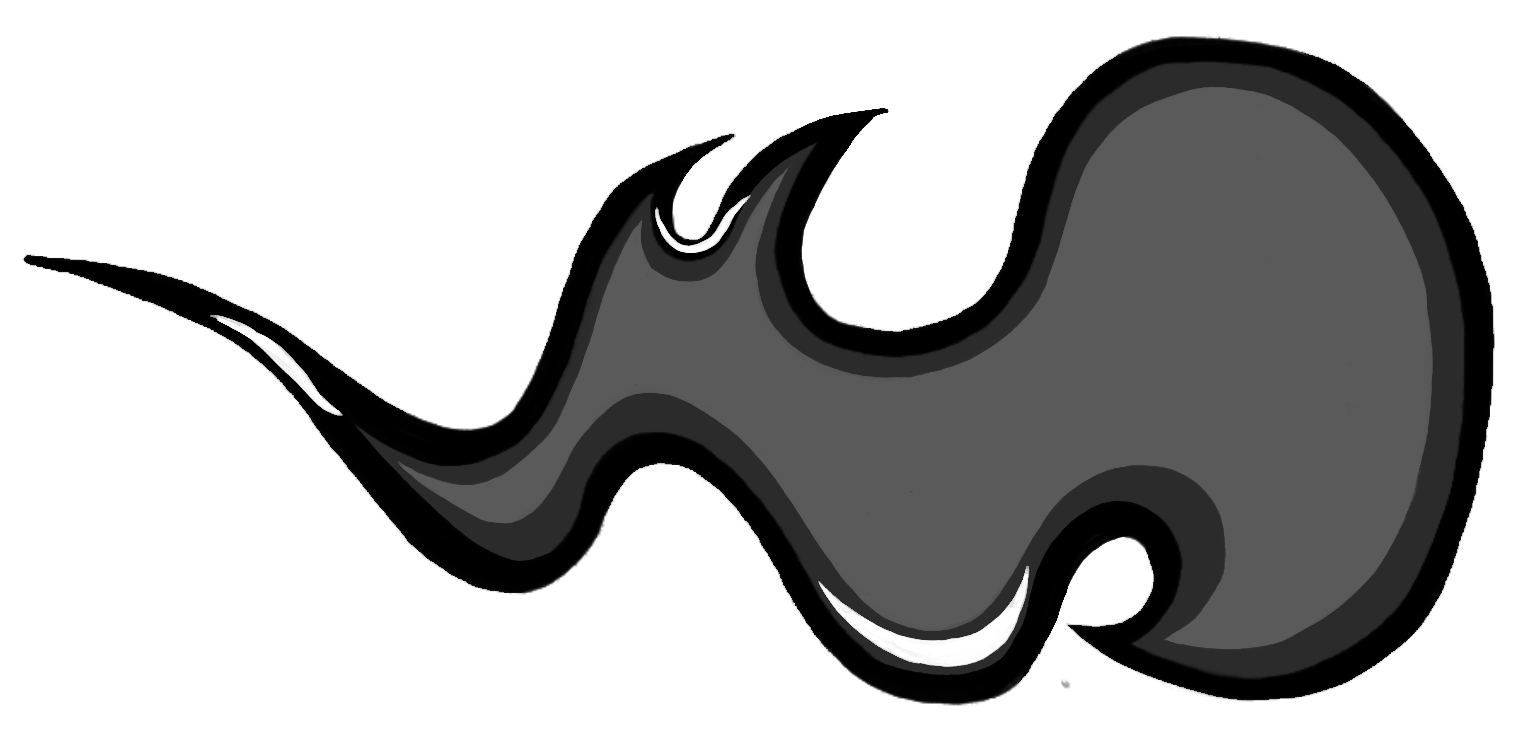
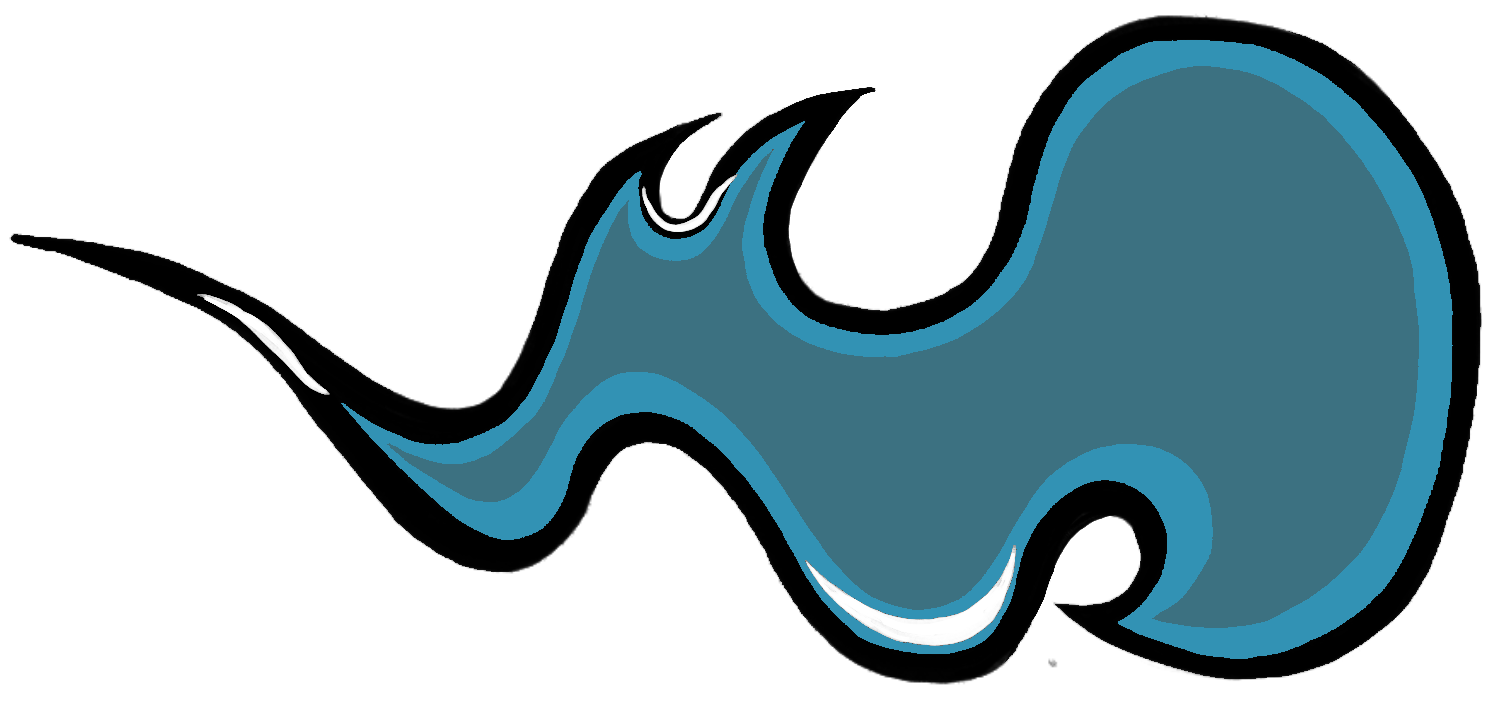
boss bullet MULTICOLOR ADD BOSS DEBUG edit boss valuus

diff --git a/EarlyBirdGetsDaWorm/Boss.cpp b/EarlyBirdGetsDaWorm/Boss.cpp
@@ -3,7 +3,8 @@
 // --- Boss Textures ---
 static AEGfxTexture* bossTex[3]          = { nullptr, nullptr, nullptr };
 static AEGfxTexture* bossShieldTex[3]    = { nullptr, nullptr, nullptr };
-static AEGfxTexture* bossBulletFrames[2] = { nullptr, nullptr };
+static AEGfxTexture* bossBulletFrames[2]        = { nullptr, nullptr };
+static AEGfxTexture* bossScatterBulletFrames[2] = { nullptr, nullptr };
 
 // --- Boss Animation Variables ---
 static int   currentBossFrame  = 0;
@@ -17,8 +18,6 @@ static int   currentBulletFrame = 0;
 static float bulletAnimTimer    = 0.0f;
 const  float BULLET_ANIM_SPEED  = 0.1f;
 
-// --- Define Max Health ---
-const int BOSS_MAX_HEALTH = 500;
 
 
 void Boss_Load()
@@ -29,8 +28,10 @@ void Boss_Load()
     bossShieldTex[0] = LoadTextureChecked(Assets::Boss_Fight::Shield1);
     bossShieldTex[1] = LoadTextureChecked(Assets::Boss_Fight::Shield2);
     bossShieldTex[2] = LoadTextureChecked(Assets::Boss_Fight::Shield3);
-    bossBulletFrames[0] = LoadTextureChecked(Assets::Boss_Fight::Bullet1);
-    bossBulletFrames[1] = LoadTextureChecked(Assets::Boss_Fight::Bullet2);
+    bossBulletFrames[0]        = LoadTextureChecked(Assets::Boss_Fight::Bullet1);
+    bossBulletFrames[1]        = LoadTextureChecked(Assets::Boss_Fight::Bullet2);
+    bossScatterBulletFrames[0] = LoadTextureChecked(Assets::Boss_Fight::ScatterBullet1);
+    bossScatterBulletFrames[1] = LoadTextureChecked(Assets::Boss_Fight::ScatterBullet2);
 }
 
 void Boss_Initialize(Boss& boss)
@@ -129,9 +130,10 @@ void Boss_Update(Boss& boss, float dt, float playerX, float playerY)
 
         for (int i = 0; i < MAX_BOSS_BULLETS; i++) {
             if (!boss.bullets[i].active) {
-                boss.bullets[i].active = true;
-                boss.bullets[i].hp = 15;
-                boss.bullets[i].x = handX; // Spawn at Hand
+                boss.bullets[i].active    = true;
+                boss.bullets[i].is_scatter = false;
+                boss.bullets[i].hp        = 15;
+                boss.bullets[i].x         = handX; // Spawn at Hand
                 boss.bullets[i].y = handY;
 
                 float diffX = playerX - handX;
@@ -157,9 +159,10 @@ void Boss_Update(Boss& boss, float dt, float playerX, float playerY)
         int bulletsFired = 0;
         for (int i = 0; i < MAX_BOSS_BULLETS && bulletsFired < 5; i++) {
             if (!boss.bullets[i].active) {
-                boss.bullets[i].active = true;
-                boss.bullets[i].hp = 10;
-                boss.bullets[i].x = handX; // Spawn at Hand
+                boss.bullets[i].active     = true;
+                boss.bullets[i].is_scatter = true;
+                boss.bullets[i].hp         = 10;
+                boss.bullets[i].x          = handX; // Spawn at Hand
                 boss.bullets[i].y = handY;
 
                 float spreadAngle = baseAngle + ((bulletsFired - 2) * 0.2f);
@@ -175,7 +178,7 @@ void Boss_Update(Boss& boss, float dt, float playerX, float playerY)
     else if (boss.currentState == 2 && boss.shootTimer <= 0.0f) {
         boss.shootTimer = 0.5f;
         if (boss.health < BOSS_MAX_HEALTH) {
-            boss.health += 1;
+            boss.health += 15;
         }
     }
 
@@ -255,13 +258,12 @@ void Boss_Draw(Boss& boss, AEGfxVertexList* mesh)
     //AEGfxSetTransparency(1.0f);
     
 
-    // Get the current frame texture
-    // Get the current frame texture
-    AEGfxTexture* currentTex = bossBulletFrames[currentBulletFrame];
-
     // Draw Boss Bullets
     for (int i = 0; i < MAX_BOSS_BULLETS; i++) {
         if (boss.bullets[i].active) {
+            AEGfxTexture* currentTex = boss.bullets[i].is_scatter
+                ? bossScatterBulletFrames[currentBulletFrame]
+                : bossBulletFrames[currentBulletFrame];
             if (currentTex) {
                 float angle = atan2f(boss.bullets[i].dirY, boss.bullets[i].dirX);
 
@@ -328,4 +330,6 @@ void Boss_Unload()
     }
     UnloadTextureSafe(bossBulletFrames[0]);
     UnloadTextureSafe(bossBulletFrames[1]);
+    UnloadTextureSafe(bossScatterBulletFrames[0]);
+    UnloadTextureSafe(bossScatterBulletFrames[1]);
 }

diff --git a/EarlyBirdGetsDaWorm/BossDebug.cpp b/EarlyBirdGetsDaWorm/BossDebug.cpp
@@ -1,0 +1,97 @@
+// BossDebug.cpp
+#include "pch.hpp"
+#include "BossDebug.hpp"
+
+static bool gBossDebugMode = false;
+static bool gGodMode       = false;
+static s8   gDebugFont     = -1;
+static char gDebugBuffer[256];
+
+void BossDebug_Load()
+{
+    gDebugFont = AEGfxCreateFont(Assets::Fonts::Buggy, 20);
+}
+
+void BossDebug_Update(Boss& boss)
+{
+    if (AEInputCheckTriggered(AEVK_F3))
+        gBossDebugMode = !gBossDebugMode;
+
+    if (!gBossDebugMode) return;
+
+    // G: set boss HP to 1 (near-death)
+    if (AEInputCheckTriggered(AEVK_G))
+        boss.health = 1;
+
+    // I: toggle god mode (player takes no damage)
+    if (AEInputCheckTriggered(AEVK_I))
+        gGodMode = !gGodMode;
+
+    // N: toggle boss shield on/off
+    if (AEInputCheckTriggered(AEVK_N))
+        boss.shieldActive = !boss.shieldActive;
+
+    // B: clear all active boss bullets
+    if (AEInputCheckTriggered(AEVK_B))
+        for (int i = 0; i < MAX_BOSS_BULLETS; i++)
+            boss.bullets[i].active = false;
+}
+
+void BossDebug_Draw(const BossDebugInfo& info)
+{
+    if (!gBossDebugMode) return;
+
+    const f32 textScale  = 1.0f;
+    const f32 startX     = -0.98f;
+    const f32 startY     = -0.55f;
+    const f32 lineHeight = 0.06f;
+
+    const char* state_str = info.boss_state == 0 ? "NORMAL"
+                          : info.boss_state == 1 ? "SPREAD"
+                          : info.boss_state == 2 ? "SHIELD"
+                          : "UNKNOWN";
+
+    // Row 0 (green) — Player position, velocity, health, flags
+    sprintf_s(gDebugBuffer, "PLAYER: Pos[%.0f, %.0f] | Vel[%.0f, %.0f] | HP:%d/%d | GRND:%s CROUCH:%s",
+        info.player_x, info.player_y,
+        info.player_vel_x, info.player_vel_y,
+        info.player_hp, info.player_hp_max,
+        info.is_grounded  ? "YES" : "NO",
+        info.is_crouching ? "YES" : "NO");
+    AEGfxPrint(gDebugFont, gDebugBuffer, startX, startY, textScale, 0.0f, 1.0f, 0.0f, 1.0f);
+
+    // Row 1 (yellow) — Boss position, health, state
+    sprintf_s(gDebugBuffer, "BOSS: Pos[%.0f, %.0f] Base:%.0f | HP:%d/%d | State:%s Timer:%.1f",
+        info.boss_x, info.boss_y, info.boss_base_y,
+        info.boss_health, info.boss_max_health,
+        state_str, info.boss_state_timer);
+    AEGfxPrint(gDebugFont, gDebugBuffer, startX, startY - lineHeight, textScale, 1.0f, 1.0f, 0.0f, 1.0f);
+
+    // Row 2 (orange) — Boss shield, dodge cooldown, bullet count, god mode
+    sprintf_s(gDebugBuffer, "BOSS: Shield:%s | DodgeCD:%.2f | Active Bullets:%d | GOD MODE:%s",
+        info.boss_shield_active ? "ON" : "OFF",
+        info.boss_dodge_cooldown,
+        info.active_bullet_count,
+        gGodMode ? "ON" : "OFF");
+    AEGfxPrint(gDebugFont, gDebugBuffer, startX, startY - (lineHeight * 2), textScale, 1.0f, 0.5f, 0.0f, 1.0f);
+
+    // Row 3 (cyan) — FPS / DT
+    f32 fps = 1.0f / (f32)AEFrameRateControllerGetFrameTime();
+    sprintf_s(gDebugBuffer, "FPS: %.2f | DT: %.5f", fps, (f32)AEFrameRateControllerGetFrameTime());
+    AEGfxPrint(gDebugFont, gDebugBuffer, startX, startY - (lineHeight * 3), textScale, 0.0f, 1.0f, 1.0f, 1.0f);
+
+    // Row 4 (grey) — Controls hint
+    sprintf_s(gDebugBuffer, "[F3] Toggle  [G] Boss HP->1  [I] God Mode  [N] Toggle Shield  [B] Clear Bullets");
+    AEGfxPrint(gDebugFont, gDebugBuffer, startX, startY - (lineHeight * 4), textScale, 0.5f, 0.5f, 0.5f, 1.0f);
+}
+
+bool BossDebug_IsActive() { return gBossDebugMode; }
+bool BossDebug_IsGodMode() { return gGodMode; }
+
+void BossDebug_Unload()
+{
+    if (gDebugFont != -1) {
+        AEGfxDestroyFont(gDebugFont);
+        gDebugFont = -1;
+    }
+}

diff --git a/EarlyBirdGetsDaWorm/BossFight.cpp b/EarlyBirdGetsDaWorm/BossFight.cpp
@@ -1,4 +1,5 @@
 #include "pch.hpp"
+#include "BossDebug.hpp"
 
 static AEGfxVertexList* squareMesh;
 static AEGfxVertexList* circleMesh;
@@ -100,6 +101,7 @@ void Boss_Fight_Load()
     player_arm_gun = LoadTextureChecked(Assets::Boss_Fight::PlayerArmGun);
 
     Boss_Load();
+    BossDebug_Load();
     PauseMenu_Load();
     squareMesh = CreateSquareMesh(COLOR_WHITE);
     circleMesh = CreateCircleMesh(0.5f, 40, COLOR_WHITE);
@@ -139,6 +141,7 @@ void Boss_Fight_Update()
 {
     float dt = (f32)AEFrameRateControllerGetFrameTime();
 
+    BossDebug_Update(myBoss);
     PauseMenu_Update(dt);
     if (PauseMenu_IsPaused()) return;
 
@@ -329,12 +332,12 @@ void Boss_Fight_Update()
                 if (abs(myBoss.bullets[i].x - playerX) < 46.66f &&
                     abs(myBoss.bullets[i].y - currentHitboxY) < currentHitboxH)
                 {
-                    playerHP--;
+                    if (!BossDebug_IsGodMode()) playerHP--;
                     myBoss.bullets[i].active = false;
                     isPlayerHit = true;
                     hitTimer = 0.2f;
 
-                    if (playerHP <= 0) {
+                    if (playerHP <= 0 && !BossDebug_IsGodMode()) {
                         Player_StopSounds(); // prevent walking SFX persisting into endgame
                         currentEndReason = REASON_DIED_TO_BOSS;
                         Analytics::LogRun(currentEndReason, Game_GetCurrentDay(), Player_GetPatientsHandled(), IsGhostPatient(),
@@ -474,6 +477,34 @@ void Boss_Fight_Draw()
     }
     AEGfxSetTransparency(1.0f);
 
+    // --- BOSS DEBUG OVERLAY ---
+    {
+        int active_count = 0;
+        for (int i = 0; i < MAX_BOSS_BULLETS; i++)
+            if (myBoss.bullets[i].active) active_count++;
+
+        BossDebugInfo dbg{};
+        dbg.player_x           = playerX;
+        dbg.player_y           = playerY;
+        dbg.player_vel_x       = playerVelX;
+        dbg.player_vel_y       = playerVelY;
+        dbg.player_hp          = playerHP;
+        dbg.player_hp_max      = MAX_PLAYER_HP;
+        dbg.is_grounded        = isGrounded;
+        dbg.is_crouching       = isCrouching;
+        dbg.boss_health        = myBoss.health;
+        dbg.boss_max_health    = BOSS_MAX_HEALTH;
+        dbg.boss_x             = myBoss.x;
+        dbg.boss_y             = myBoss.y;
+        dbg.boss_base_y        = myBoss.baseY;
+        dbg.boss_state         = myBoss.currentState;
+        dbg.boss_state_timer   = myBoss.stateTimer;
+        dbg.boss_shield_active = myBoss.shieldActive;
+        dbg.boss_dodge_cooldown = bossDodgeCooldown;
+        dbg.active_bullet_count = active_count;
+        BossDebug_Draw(dbg);
+    }
+
     PauseMenu_Draw(squareMesh);
 }
 
@@ -481,6 +512,7 @@ void Boss_Fight_Free() {
 }
 
 void Boss_Fight_Unload() {
+    BossDebug_Unload();
     Boss_Unload();
     FreeMeshSafe(squareMesh);
     FreeMeshSafe(circleMesh);

diff --git a/EarlyBirdGetsDaWorm/BossDebug.hpp b/EarlyBirdGetsDaWorm/BossDebug.hpp
@@ -1,0 +1,28 @@
+// BossDebug.hpp
+#pragma once
+#include "boss.hpp"
+
+struct BossDebugInfo {
+    float player_x, player_y;
+    float player_vel_x, player_vel_y;
+    int   player_hp;
+    int   player_hp_max;
+    bool  is_grounded;
+    bool  is_crouching;
+
+    int   boss_health;
+    int   boss_max_health;
+    float boss_x, boss_y, boss_base_y;
+    int   boss_state;
+    float boss_state_timer;
+    bool  boss_shield_active;
+    float boss_dodge_cooldown;
+    int   active_bullet_count;
+};
+
+void BossDebug_Load();
+void BossDebug_Update(Boss& boss);
+void BossDebug_Draw(const BossDebugInfo& info);
+void BossDebug_Unload();
+bool BossDebug_IsActive();
+bool BossDebug_IsGodMode();

diff --git a/EarlyBirdGetsDaWorm/assets_catalog.hpp b/EarlyBirdGetsDaWorm/assets_catalog.hpp
@@ -64,6 +64,8 @@ namespace Assets
         constexpr const char* Shield3 = "Assets/Boss/boss_shield3.png";
         constexpr const char* Bullet1 = "Assets/Boss/boss_bullet.png";
         constexpr const char* Bullet2 = "Assets/Boss/boss_bullet1.png";
+        constexpr const char* ScatterBullet1 = "Assets/Boss/scatter_bullet.PNG";
+        constexpr const char* ScatterBullet2 = "Assets/Boss/scatter_bullet1.PNG";
         constexpr const char* PlayerShooting1 = "Assets/Player/player_shooting_1.png";
         constexpr const char* PlayerShooting2 = "Assets/Player/player_shooting_2.png";
 		constexpr const char* PlayerCrouch = "Assets/Player/nurse_crouch.png";

diff --git a/EarlyBirdGetsDaWorm/Game.cpp b/EarlyBirdGetsDaWorm/Game.cpp
@@ -407,8 +407,9 @@ void Game_Update()
         }
     }
 
-    // Endless hallway: active whenever the lighting anomaly is running
-    dementia = CentralPool_IsSystemActive(AnomalyFiles::Lighting_isActive);
+    // Endless hallway: only active when the lighting anomaly is running AND the current illness is Dementia
+    dementia = CentralPool_IsSystemActive(AnomalyFiles::Lighting_isActive)
+            && (Player_GetAnomalyIllness() == ILLNESSES::DEMENTIA);
 
     // Clamp camera so the player can't scroll past either end of the corridor.
     // Also kill velocity at each boundary so it doesn't fight against the clamp.

diff --git a/EarlyBirdGetsDaWorm/Analytics.cpp b/EarlyBirdGetsDaWorm/Analytics.cpp
@@ -56,7 +56,7 @@ namespace Analytics {
             outFile << "Date_Time,Day_Reached,End_Reason,Illness_Active,Mimic_Illness,Was_Carrying_Ghost,Patients_Handled,Time_Survived_Seconds\n";
         }
 
-        // localtime_s is the MSVC-safe alternative to localtime; avoids C4996 deprecation warning
+        // localtime_s is the MSVC-safe alternative to localtime; avoids deprecation warning
         std::time_t now = std::time(nullptr);
         struct tm timeinfo;
         localtime_s(&timeinfo, &now);

diff --git a/EarlyBirdGetsDaWorm/Bullets.cpp b/EarlyBirdGetsDaWorm/Bullets.cpp
@@ -150,7 +150,7 @@ void Bullets_Update(float dt, float camX, Boss& myBoss)
                         bullets[i].speed = 1800.0f;
                     }
                     else {
-                        myBoss.health -= 2;
+                        myBoss.health -= 5;
                         bullets[i].active = false;
 
                         // Roll dodge chance on actual hit, not on bullet fire

diff --git a/EarlyBirdGetsDaWorm/boss.hpp b/EarlyBirdGetsDaWorm/boss.hpp
@@ -1,14 +1,15 @@
 #pragma once
 // --- CONSTANTS ---
 const int MAX_BOSS_BULLETS = 20;
+const int BOSS_MAX_HEALTH  = 500;
 
 // --- STRUCTS ---
 struct BossBullet {
     float x, y;
     float dirX, dirY;
     bool active;
-
-    int hp; // <--- ADD THIS LINE!
+    bool is_scatter; // true = spread shot, uses scatter bullet texture
+    int hp;
 };
 
 struct Boss {
